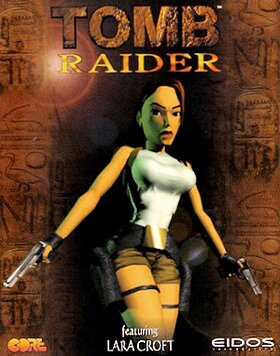
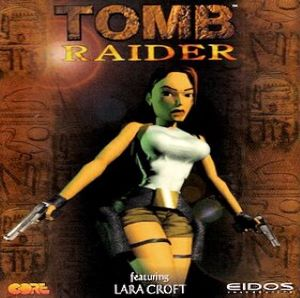
changed the size of images. made the carousel work.

diff --git a/index.html b/index.html
@@ -4,12 +4,22 @@
         <meta name="viewport" content="width=device-width, initial-scale=1, shrink-to-fit=no">
 		<!-- Bootstrap CSS -->
 		<link rel="stylesheet" href="https://stackpath.bootstrapcdn.com/bootstrap/4.3.1/css/bootstrap.min.css" integrity="sha384-ggOyR0iXCbMQv3Xipma34MD+dH/1fQ784/j6cY/iJTQUOhcWr7x9JvoRxT2MZw1T" crossorigin="anonymous">
-
+        <link rel="stylesheet" href="https://maxcdn.bootstrapcdn.com/bootstrap/3.4.1/css/bootstrap.min.css">
+  
 		<link rel="stylesheet" href="/mysql/css/style1.css" media="screen" type="text/css" />
 		
-		<script type="text/javascript" src="https://ajax.googleapis.com/ajax/libs/jquery/2.0.3/jquery.min.js"></script>
+		<script src="https://ajax.googleapis.com/ajax/libs/jquery/3.4.1/jquery.min.js"></script>
+        <script src="https://maxcdn.bootstrapcdn.com/bootstrap/3.4.1/js/bootstrap.min.js"></script>
 		<script type="text/javascript" src="/mysql/js/jquery.shop.js"></script>
         <script type="text/javascript" src="myscripts.js"></script>
+
+        <style>
+  .carousel-inner > .item > img,
+  .carousel-inner > .item > a > img {
+    width: 70%;
+    margin: auto;
+  }
+  </style>
     </head>
     <body style="background-color:grey">
 
@@ -37,7 +47,9 @@
           </li>
 		  <li class="nav-item">
             <a class="nav-link" HREF = "contact.html">Contact</a>
-			
+          </li>
+           <li class="nav-item">
+            <a class="nav-link" HREF = "carousel.html">Carousel</a>
           </li>
         </ul>
       </div>
@@ -46,37 +58,77 @@
 
             <p id=demo>A store for old-school gamers!</p>
 
-            <div id="mycarousel" class="carousel slide" data-ride="carousel">
+            <div class="container">
+  
+  <div id="myCarousel" class="carousel slide">
+    <!-- Indicators -->
+    <ol class="carousel-indicators">
+      <li class="item1 active"></li>
+      <li class="item2"></li>
+      <li class="item3"></li>
+    </ol>
 
-  <!-- Indicators -->
-  <ul class="carousel-indicators">
-    <li data-target="#mycarousel" data-slide-to="0" class="active"></li>
-    <li data-target="#mycarousel" data-slide-to="1"></li>
-    <li data-target="#mycarousel" data-slide-to="2"></li>
-  </ul>
+    <!-- Wrapper for slides -->
+    <div class="carousel-inner" role="listbox">
 
-  <!-- The slideshow -->
-  <div class="carousel-inner">
-    <div class="carousel-item active">
-      <img src="/mysql/img/tomb_raider.jpg" alt="Tomb Raider">
+      <div class="item active">
+        <img src="/mysql/img/tomb_raider.jpg" alt="tomb raider" width="460" height="345">
+        <div class="carousel-caption">
+        </div>
+      </div>
+
+      <div class="item">
+        <img src="/mysql/img/crash.png" alt="crash" width="460" height="345">
+        <div class="carousel-caption">
+        </div>
+      </div>
+    
+      <div class="item">
+        <img src="/mysql/img/spyro.jpg" alt="spyro" width="460" height="345">
+        <div class="carousel-caption">
+        </div>
+      </div>
+  
     </div>
-    <div class="carousel-item">
-      <img src="/mysql/img/crash.png" alt="Crash Bandicoot">
-    </div>
-    <div class="carousel-item">
-      <img src="/mysql/img/spyro.jpg" alt="Spyro">
-    </div>
+
+    <!-- Left and right controls -->
+    <a class="left carousel-control" href="#myCarousel" role="button">
+      <span class="glyphicon glyphicon-chevron-left" aria-hidden="true"></span>
+      <span class="sr-only">Previous</span>
+    </a>
+    <a class="right carousel-control" href="#myCarousel" role="button">
+      <span class="glyphicon glyphicon-chevron-right" aria-hidden="true"></span>
+      <span class="sr-only">Next</span>
+    </a>
   </div>
-
-  <!-- Left and right controls -->
-  <a class="carousel-control-prev" href="#mycarousel" data-slide="prev">
-    <span class="carousel-control-prev-icon"></span>
-  </a>
-  <a class="carousel-control-next" href="#mycarousel" data-slide="next">
-    <span class="carousel-control-next-icon"></span>
-  </a>
-
 </div>
+
+<script>
+$(document).ready(function(){
+  // Activate Carousel
+  $("#myCarousel").carousel();
+    
+  // Enable Carousel Indicators
+  $(".item1").click(function(){
+    $("#myCarousel").carousel(0);
+  });
+  $(".item2").click(function(){
+    $("#myCarousel").carousel(1);
+  });
+  $(".item3").click(function(){
+    $("#myCarousel").carousel(2);
+  });
+ 
+    
+  // Enable Carousel Controls
+  $(".left").click(function(){
+    $("#myCarousel").carousel("prev");
+  });
+  $(".right").click(function(){
+    $("#myCarousel").carousel("next");
+  });
+});
+</script>
             
             
             
